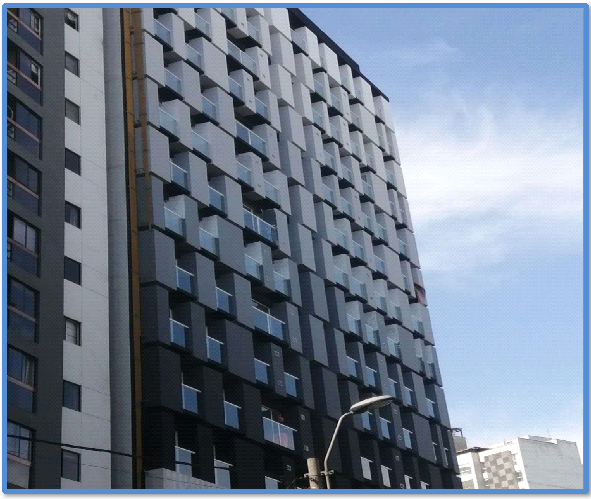
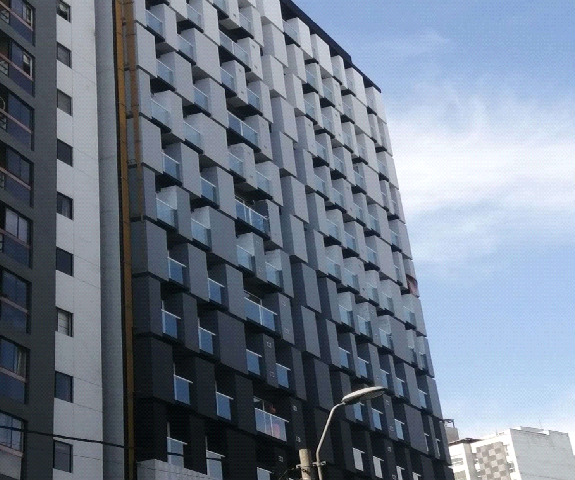
AVANZE CARRUSEL

diff --git a/src/app/components/home/home.component.html b/src/app/components/home/home.component.html
@@ -23,7 +23,7 @@
         </ng-template>
         <ng-template ngbSlide>
             <div class="wrapper">
-                <div class="page-header section-dark" style="background-image: url('assets/img/home/homebanner.png')" alt="First slide">
+                <div class="page-header section-dark" style="background-image: url('assets/img/home/img3.png')" alt="First slide">
                     <div class="filter"></div>
                     <div class="content-center">
                         <div class="container">
@@ -43,7 +43,7 @@
         </ng-template>
         <ng-template ngbSlide>
             <div class="wrapper">
-                <div class="page-header section-dark" style="background-image: url('assets/img/home/homebanner.png')" alt="First slide">
+                <div class="page-header section-dark" style="background-image: url('assets/img/home/img2.png')" alt="First slide">
                     <div class="filter"></div>
                     <div class="content-center">
                         <div class="container">
